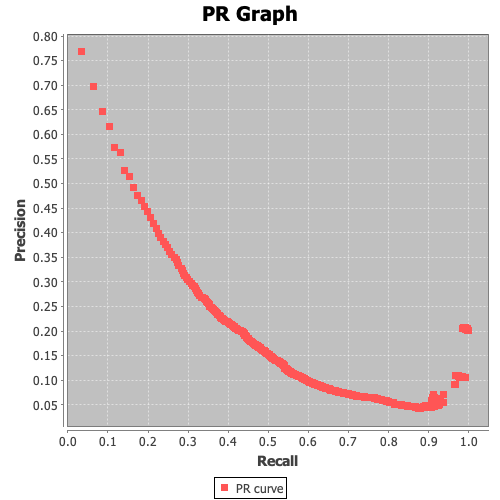
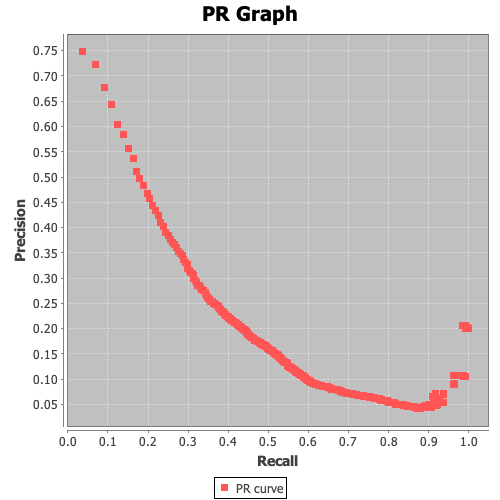
add BM25 ranker

diff --git a/src/main/java/org/zeroqu/ircore/ranker/BM25Ranker.java b/src/main/java/org/zeroqu/ircore/ranker/BM25Ranker.java
@@ -1,0 +1,60 @@
+package org.zeroqu.ircore.ranker;
+
+import org.zeroqu.ircore.model.Posting;
+import org.zeroqu.ircore.model.Record;
+import org.zeroqu.ircore.repository.DocumentInvertedIndexRepository;
+import org.zeroqu.ircore.repository.RecordRepository;
+import org.zeroqu.ircore.tokenizer.Tokenizer;
+
+import java.util.*;
+
+public class BM25Ranker extends TfIdfRanker {
+
+    private BM25Ranker(Tokenizer tokenizer,
+                       DocumentInvertedIndexRepository documentInvertedIndexes,
+                       RecordRepository recordRepository) {
+        super(tokenizer, documentInvertedIndexes, recordRepository);
+    }
+
+    public static BM25Ranker build(Tokenizer tokenizer,
+                                   DocumentInvertedIndexRepository documentInvertedIndexes,
+                                   RecordRepository recordRepository) {
+        return new BM25Ranker(tokenizer, documentInvertedIndexes, recordRepository);
+    }
+
+    @Override
+    public double score(String query, String recordNum) {
+        Record record = recordRepository.getRecords().get(recordNum);
+        List<String> queryTokens = tokenizer.tokenize(query);
+        Map<String, Integer> queryPosting = new HashMap<>();
+        for (String queryToken : queryTokens) {
+            queryPosting.put(queryToken, queryPosting.getOrDefault(queryToken, 0) + 1);
+        }
+        Map<String, Posting> recordPostings = record.getPostings();
+        Set<String> intersectTokens = getIntersectTokens(recordPostings.keySet(), new HashSet<>(queryTokens));
+        double docN = recordRepository.getRecords().size();
+
+        double sum = 0.0;
+        for (String token : intersectTokens) {
+            double docTf = recordPostings.get(token).getFrequency();
+            double docDf = documentInvertedIndexes.getInvertedIndexes().get(token).getDocumentFrequency();
+            double queryTf = queryPosting.get(token);
+            double dl = record.getTokens().size();
+            double avgDl = recordRepository.getAverageRecordLength();
+
+            double k1 = 1.2;
+            double k2 = 500.0;
+            double b = 0.75;
+            double K = k1 * ((1 - b) + b * (dl / avgDl));
+
+            double idf = Math.log10(docN / docDf);
+
+            double p2 = (k1 + 1) * docTf / (K + docTf);
+            double p3 = (k2 + 1) * queryTf / (k2 + queryTf);
+
+            sum += idf * p2 * p3;
+        }
+
+        return sum;
+    }
+}

diff --git a/src/main/java/org/zeroqu/ircore/util/P10GraphPlotter.java b/src/main/java/org/zeroqu/ircore/util/P10GraphPlotter.java
@@ -34,7 +34,7 @@ public class P10GraphPlotter {
                            QueryCollection queryCollection) throws IOException {
         logger.info("msg=\"Start generating P@10 histogram plot...\"");
 
-        Ranker ranker = RankerFactory.buildRanker(RankerType.TfIdfRanker,
+        Ranker ranker = RankerFactory.buildRanker(RankerType.BM25Ranker,
                 tokenizerCollection.getTokenizer(),
                 recordCollection.getDocumentInvertedIndexRepository(),
                 recordCollection.getRecordRepository());
@@ -54,12 +54,13 @@ public class P10GraphPlotter {
                             .collect(Collectors.toSet());
                     int numberOfRetrievedAndRelevant = 0;
 
-                    for (int numberOfRetrieved = 1; numberOfRetrieved <= 10; numberOfRetrieved++) {
+                    int nr = Math.min(10, resultRecords.size() - 1);
+                    for (int numberOfRetrieved = 1; numberOfRetrieved <= nr; numberOfRetrieved++) {
                         ResultRecord resultRecord = resultRecords.get(numberOfRetrieved - 1);
                         int recordNum = Integer.parseInt(resultRecord.getRecord().getRecordNum());
                         if (relevantRecords.contains(recordNum)) numberOfRetrievedAndRelevant++;
                     }
-                    return numberOfRetrievedAndRelevant / 10.0;
+                    return numberOfRetrievedAndRelevant * 1.0 / nr;
                 }).toArray(Double[]::new);
 
         double sum = 0.0;

diff --git a/src/main/java/org/zeroqu/ircore/repository/RecordRepository.java b/src/main/java/org/zeroqu/ircore/repository/RecordRepository.java
@@ -12,6 +12,7 @@ import java.util.Map;
 @Getter
 public class RecordRepository implements Serializable {
     private final Map<String, Record> records;
+    private int averageRecordLength;
 
     private RecordRepository() {
         this.records = new HashMap<>();
@@ -20,12 +21,18 @@ public class RecordRepository implements Serializable {
     public static RecordRepository build(Document document) {
         RecordRepository recordRepository = new RecordRepository();
         document.getRecords().forEach(recordRepository::addRecord);
+        recordRepository.averageRecordLength = recordRepository.records.values().stream()
+                .map(record -> record.getTokens().size())
+                .reduce(0, Integer::sum) / recordRepository.records.size();
         return recordRepository;
     }
 
     public static RecordRepository build(List<Document> documents) {
         RecordRepository recordRepository = new RecordRepository();
         documents.forEach(document -> document.getRecords().forEach(recordRepository::addRecord));
+        recordRepository.averageRecordLength = recordRepository.records.values().stream()
+                .map(record -> record.getTokens().size())
+                .reduce(0, Integer::sum) / recordRepository.records.size();
         return recordRepository;
     }
 

diff --git a/src/main/java/org/zeroqu/ircore/util/PRGraphPlotter.java b/src/main/java/org/zeroqu/ircore/util/PRGraphPlotter.java
@@ -34,11 +34,12 @@ public class PRGraphPlotter {
     @Autowired
     public PRGraphPlotter(RecordCollection recordCollection, TokenizerCollection tokenizerCollection,
                           QueryCollection queryCollection) throws IOException {
-        Ranker ranker = RankerFactory.buildRanker(RankerType.TfIdfRanker,
+        logger.info("msg=\"Start generating PR plot...\"");
+
+        Ranker ranker = RankerFactory.buildRanker(RankerType.BM25Ranker,
                 tokenizerCollection.getTokenizer(),
                 recordCollection.getDocumentInvertedIndexRepository(),
                 recordCollection.getRecordRepository());
-        logger.info("msg=\"Start generating PR plot...\"");
 
         XYSeries series = new XYSeries("PR curve");
         QueryRepository queryRepository = queryCollection.getQueryRepository();

diff --git a/src/main/java/org/zeroqu/ircore/controller/SearchController.java b/src/main/java/org/zeroqu/ircore/controller/SearchController.java
@@ -40,7 +40,7 @@ public class SearchController {
     public ResponseEntity<String> handleSearch(@RequestParam("query") String query) {
         try {
             long startTime = System.currentTimeMillis();
-            Ranker ranker = RankerFactory.buildRanker(RankerType.TfIdfRanker,
+            Ranker ranker = RankerFactory.buildRanker(RankerType.BM25Ranker,
                     tokenizerCollection.getTokenizer(),
                     recordCollection.getDocumentInvertedIndexRepository(),
                     recordCollection.getRecordRepository());

diff --git a/src/main/java/org/zeroqu/ircore/ranker/RankerFactory.java b/src/main/java/org/zeroqu/ircore/ranker/RankerFactory.java
@@ -13,6 +13,8 @@ public class RankerFactory {
                 return TfIdfRanker.build(tokenizer, documentInvertedIndexRepository, recordRepository);
             case CosineSimilarityRanker:
                 return CosineSimilarityRanker.build(tokenizer, documentInvertedIndexRepository, recordRepository);
+            case BM25Ranker:
+                return BM25Ranker.build(tokenizer, documentInvertedIndexRepository, recordRepository);
             default:
                 throw new IllegalArgumentException("Invalid rankerType!");
         }

diff --git a/src/main/java/org/zeroqu/ircore/ranker/RankerType.java b/src/main/java/org/zeroqu/ircore/ranker/RankerType.java
@@ -2,5 +2,6 @@ package org.zeroqu.ircore.ranker;
 
 public enum RankerType {
     TfIdfRanker,
-    CosineSimilarityRanker
+    CosineSimilarityRanker,
+    BM25Ranker
 }
